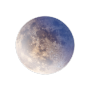
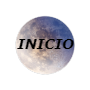
arrumando botao de inicio lincoln

Changed region(s): [[0.1778, 0.4222, 0.8222, 0.5556]]

diff --git a/js/faselincoln.js b/js/faselincoln.js
@@ -332,7 +332,7 @@ faselincoln.create = function () {
   }).setScale(0.7);
   newgame = this.add.image(130, 190, "newgame").setInteractive().setScale(0.7);
   next = this.add
-    .image(200, 300, "novonext")
+    .image(100, 300, "novonext")
     .setInteractive()
     .setVisible(false)
     .setScale(0.7);
@@ -480,7 +480,7 @@ faselincoln.create = function () {
         imagembloqueio = game.add
           .image(330, 190, "fundograde")
           .setInteractive().setScale(0.7);
-        suavez = game.add.image(340, 40, "escolha2").setInteractive().setScale(0.7);
+        suavez = game.add.image(330, 35, "escolha2").setInteractive().setScale(0.7);
         suavez.setVisible(true);
       } else if (jogador === 1) {
         suavez = game.add
@@ -1209,7 +1209,7 @@ faselincoln.create = function () {
         imagembloqueio = game.add
           .image(330, 190, "fundograde")
           .setInteractive().setScale(0.7);
-        suavez = game.add.image(340, 40, "escolha2").setInteractive().setScale(0.7);
+        suavez = game.add.image(330, 35, "escolha2").setInteractive().setScale(0.7);
         suavez.setVisible(true);
       } else if (jogador === 2) {
         suavez = game.add
@@ -2175,7 +2175,7 @@ faselincoln.create = function () {
         imagembloqueio = game.add
           .image(330, 190, "fundograde")
           .setInteractive().setScale(0.7);
-        suavez = game.add.image(340, 40, "escolha2").setInteractive().setScale(0.7);
+        suavez = game.add.image(330, 35, "escolha2").setInteractive().setScale(0.7);
         suavez.setVisible(true);
       } else if (jogador === 1) {
         suavez = game.add
@@ -3787,7 +3787,7 @@ faselincoln.create = function () {
         imagembloqueio = game.add
           .image(330, 190, "fundograde")
           .setInteractive().setScale(0.7);
-        suavez = game.add.image(340, 40, "escolha2").setInteractive().setScale(0.7);
+        suavez = game.add.image(330, 35, "escolha2").setInteractive().setScale(0.7);
         suavez.setVisible(true);
       } else if (jogador === 2) {
         suavez = game.add
@@ -7048,7 +7048,7 @@ faselincoln.create = function () {
           .setInteractive()
           .setScale(0.7);
         suavez = game.add
-          .image(340, 40, "escolha2")
+          .image(330, 35, "escolha2")
           .setInteractive()
           .setScale(0.7);
         suavez.setVisible(true);

diff --git a/js/fase2.js b/js/fase2.js
@@ -523,7 +523,7 @@ fase2.create = function () {
             .forEach((track) => localConnection.addTrack(track, midias));
           localConnection.onicecandidate = ({ candidate }) => {
             candidate &&
-              socket.emit("candidate", jogadores.primeiro, candidate);
+              socket.emit("candidate", jogadores.primeiro,sala, candidate);
           };
           console.log(midias);
           localConnection.ontrack = ({ streams: [midias] }) => {
@@ -534,7 +534,7 @@ fase2.create = function () {
             .then((offer) => localConnection.setLocalDescription(offer))
             .then(() => {
               socket.emit(
-                "offer",
+                "offer",sala,
                 jogadores.primeiro,
                 localConnection.localDescription
               );
@@ -563,7 +563,7 @@ fase2.create = function () {
       .getTracks()
       .forEach((track) => remoteConnection.addTrack(track, midias));
     remoteConnection.onicecandidate = ({ candidate }) => {
-      candidate && socket.emit("candidate", socketId, candidate);
+      candidate && socket.emit("candidate", socketId,sala,candidate);
     };
     remoteConnection.ontrack = ({ streams: [midias] }) => {
       audio.srcObject = midias;
@@ -573,7 +573,7 @@ fase2.create = function () {
       .then(() => remoteConnection.createAnswer())
       .then((answer) => remoteConnection.setLocalDescription(answer))
       .then(() => {
-        socket.emit("answer", socketId, remoteConnection.localDescription);
+        socket.emit("answer", socketId, sala,remoteConnection.localDescription);
       });
   });
 
@@ -610,7 +610,7 @@ fase2.update = function (time, delta) {
     } catch (e) {
       frame = 0;
     }
-    socket.emit("estadoDoJogador", {
+    socket.emit("estadoDoJogador", sala,{
       frame: frame,
       x: player1.body.x,
       y: player1.body.y,
@@ -623,7 +623,7 @@ fase2.update = function (time, delta) {
     } catch (e) {
       frame = 0;
     }
-    socket.emit("estadoDoJogador", {
+    socket.emit("estadoDoJogador",sala,{
       frame: frame,
       x: player2.body.x,
       y: player2.body.y,
